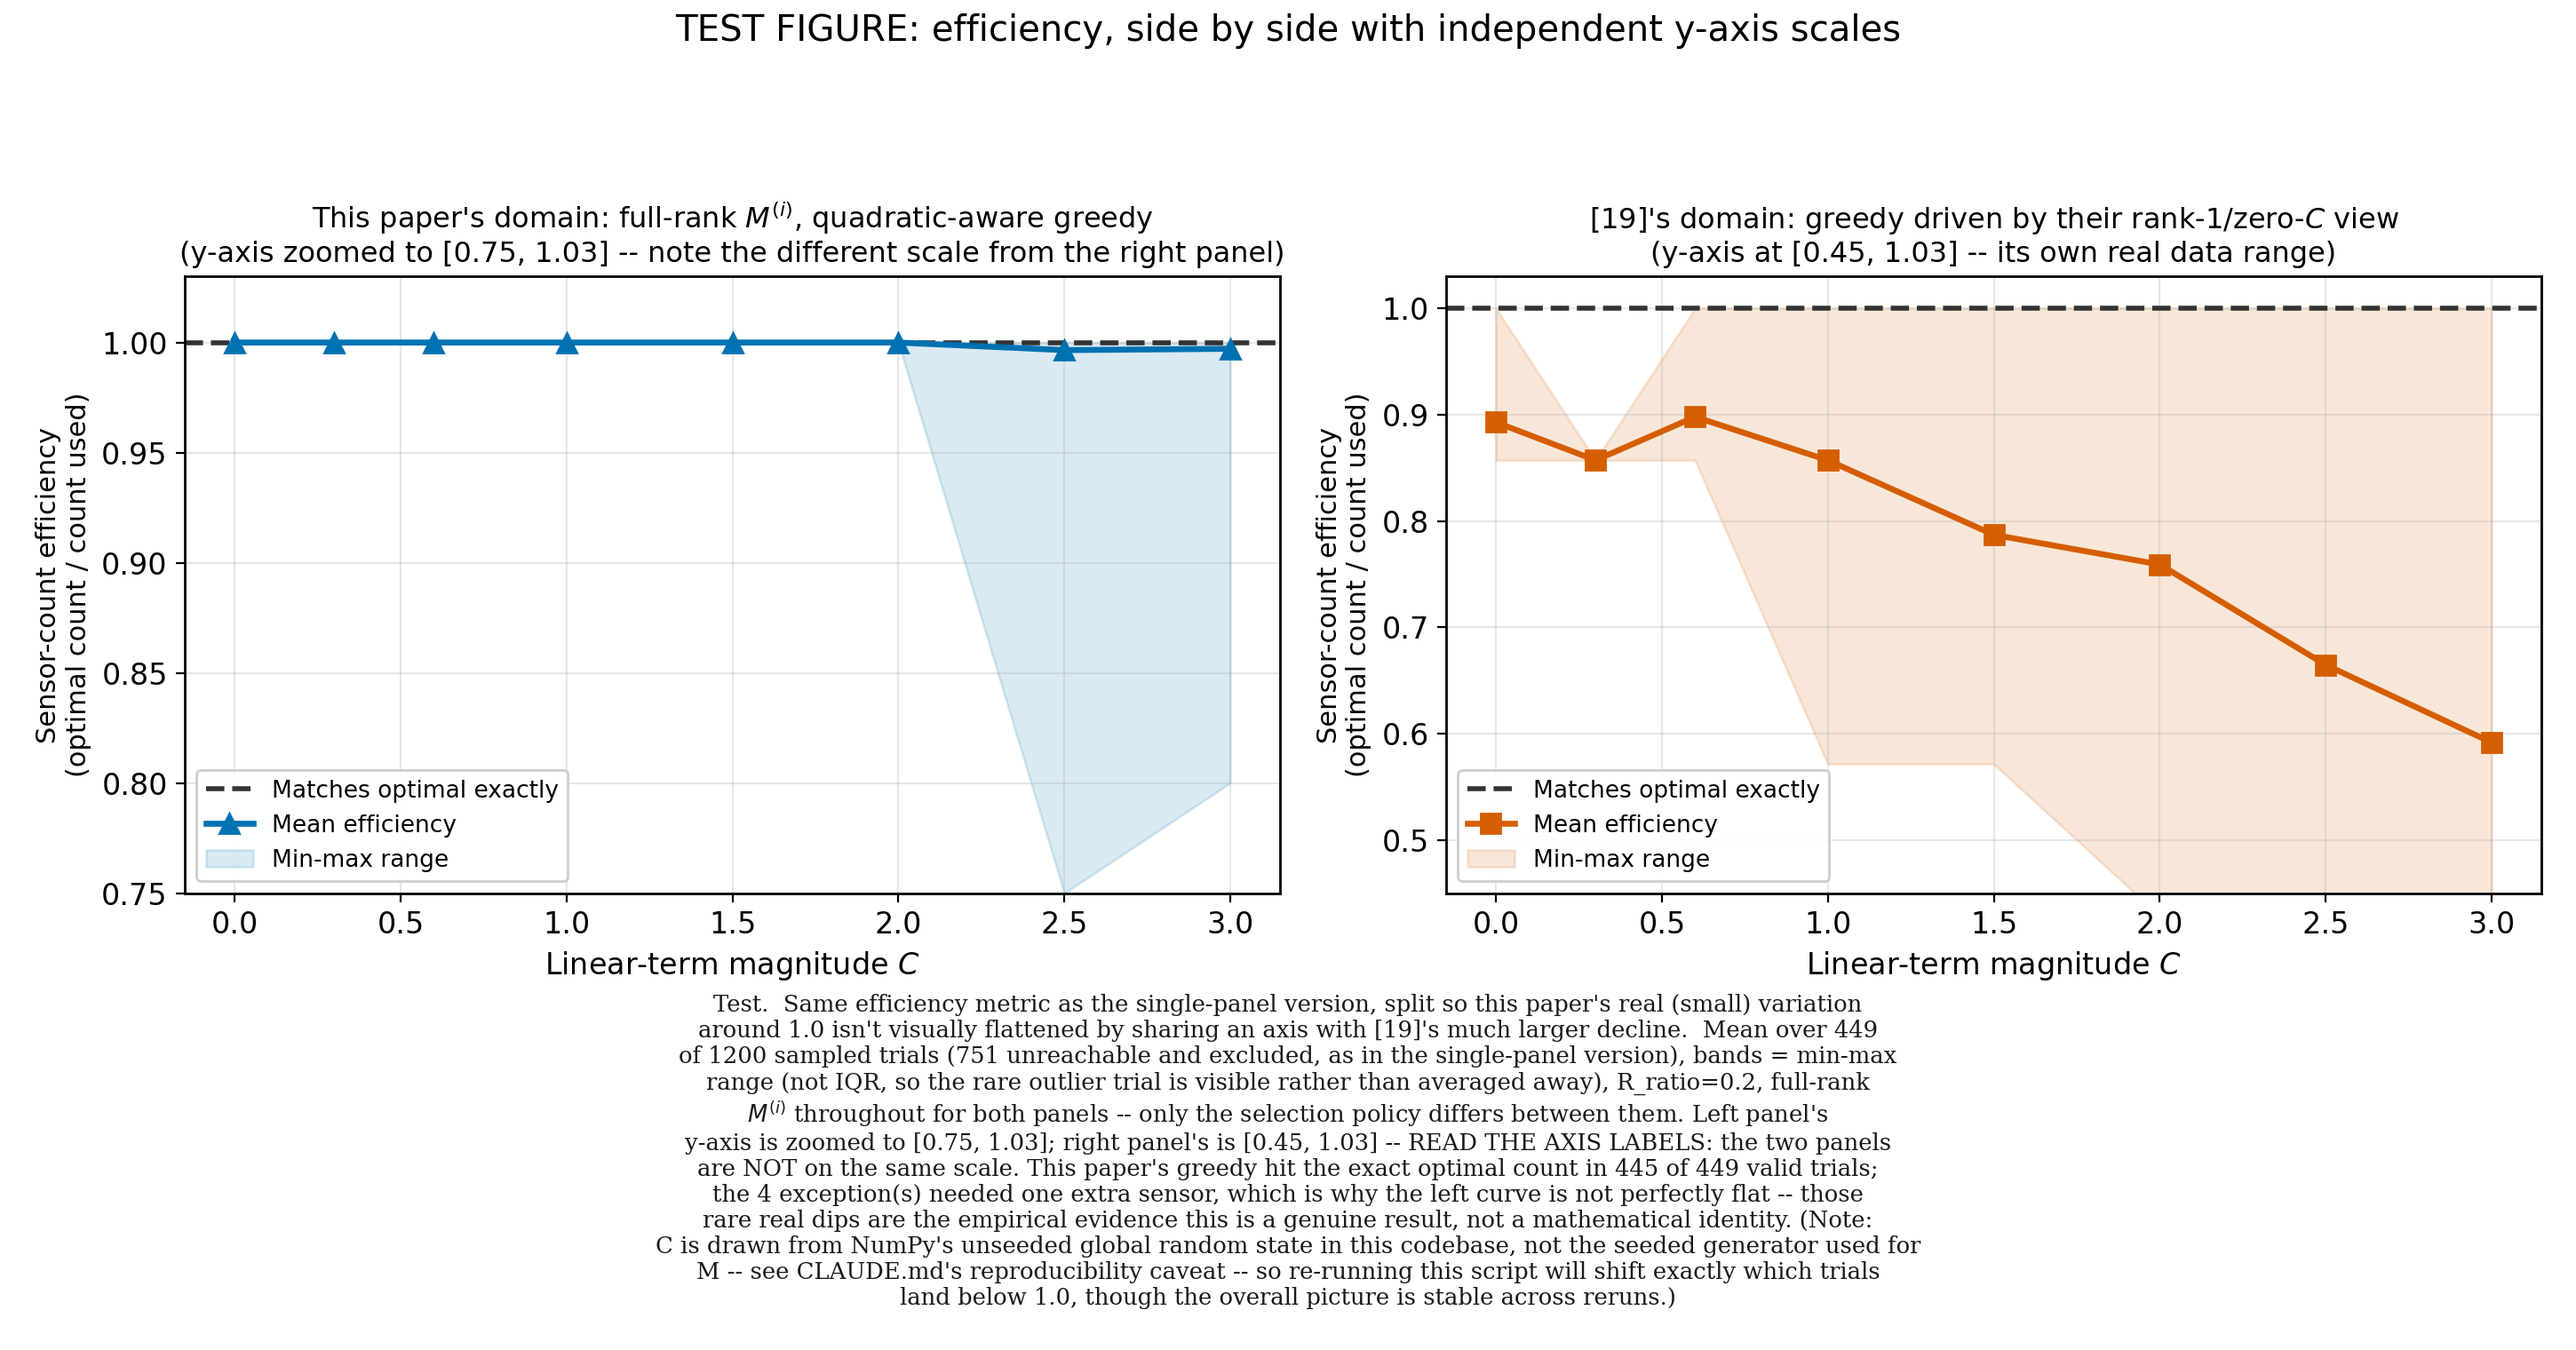
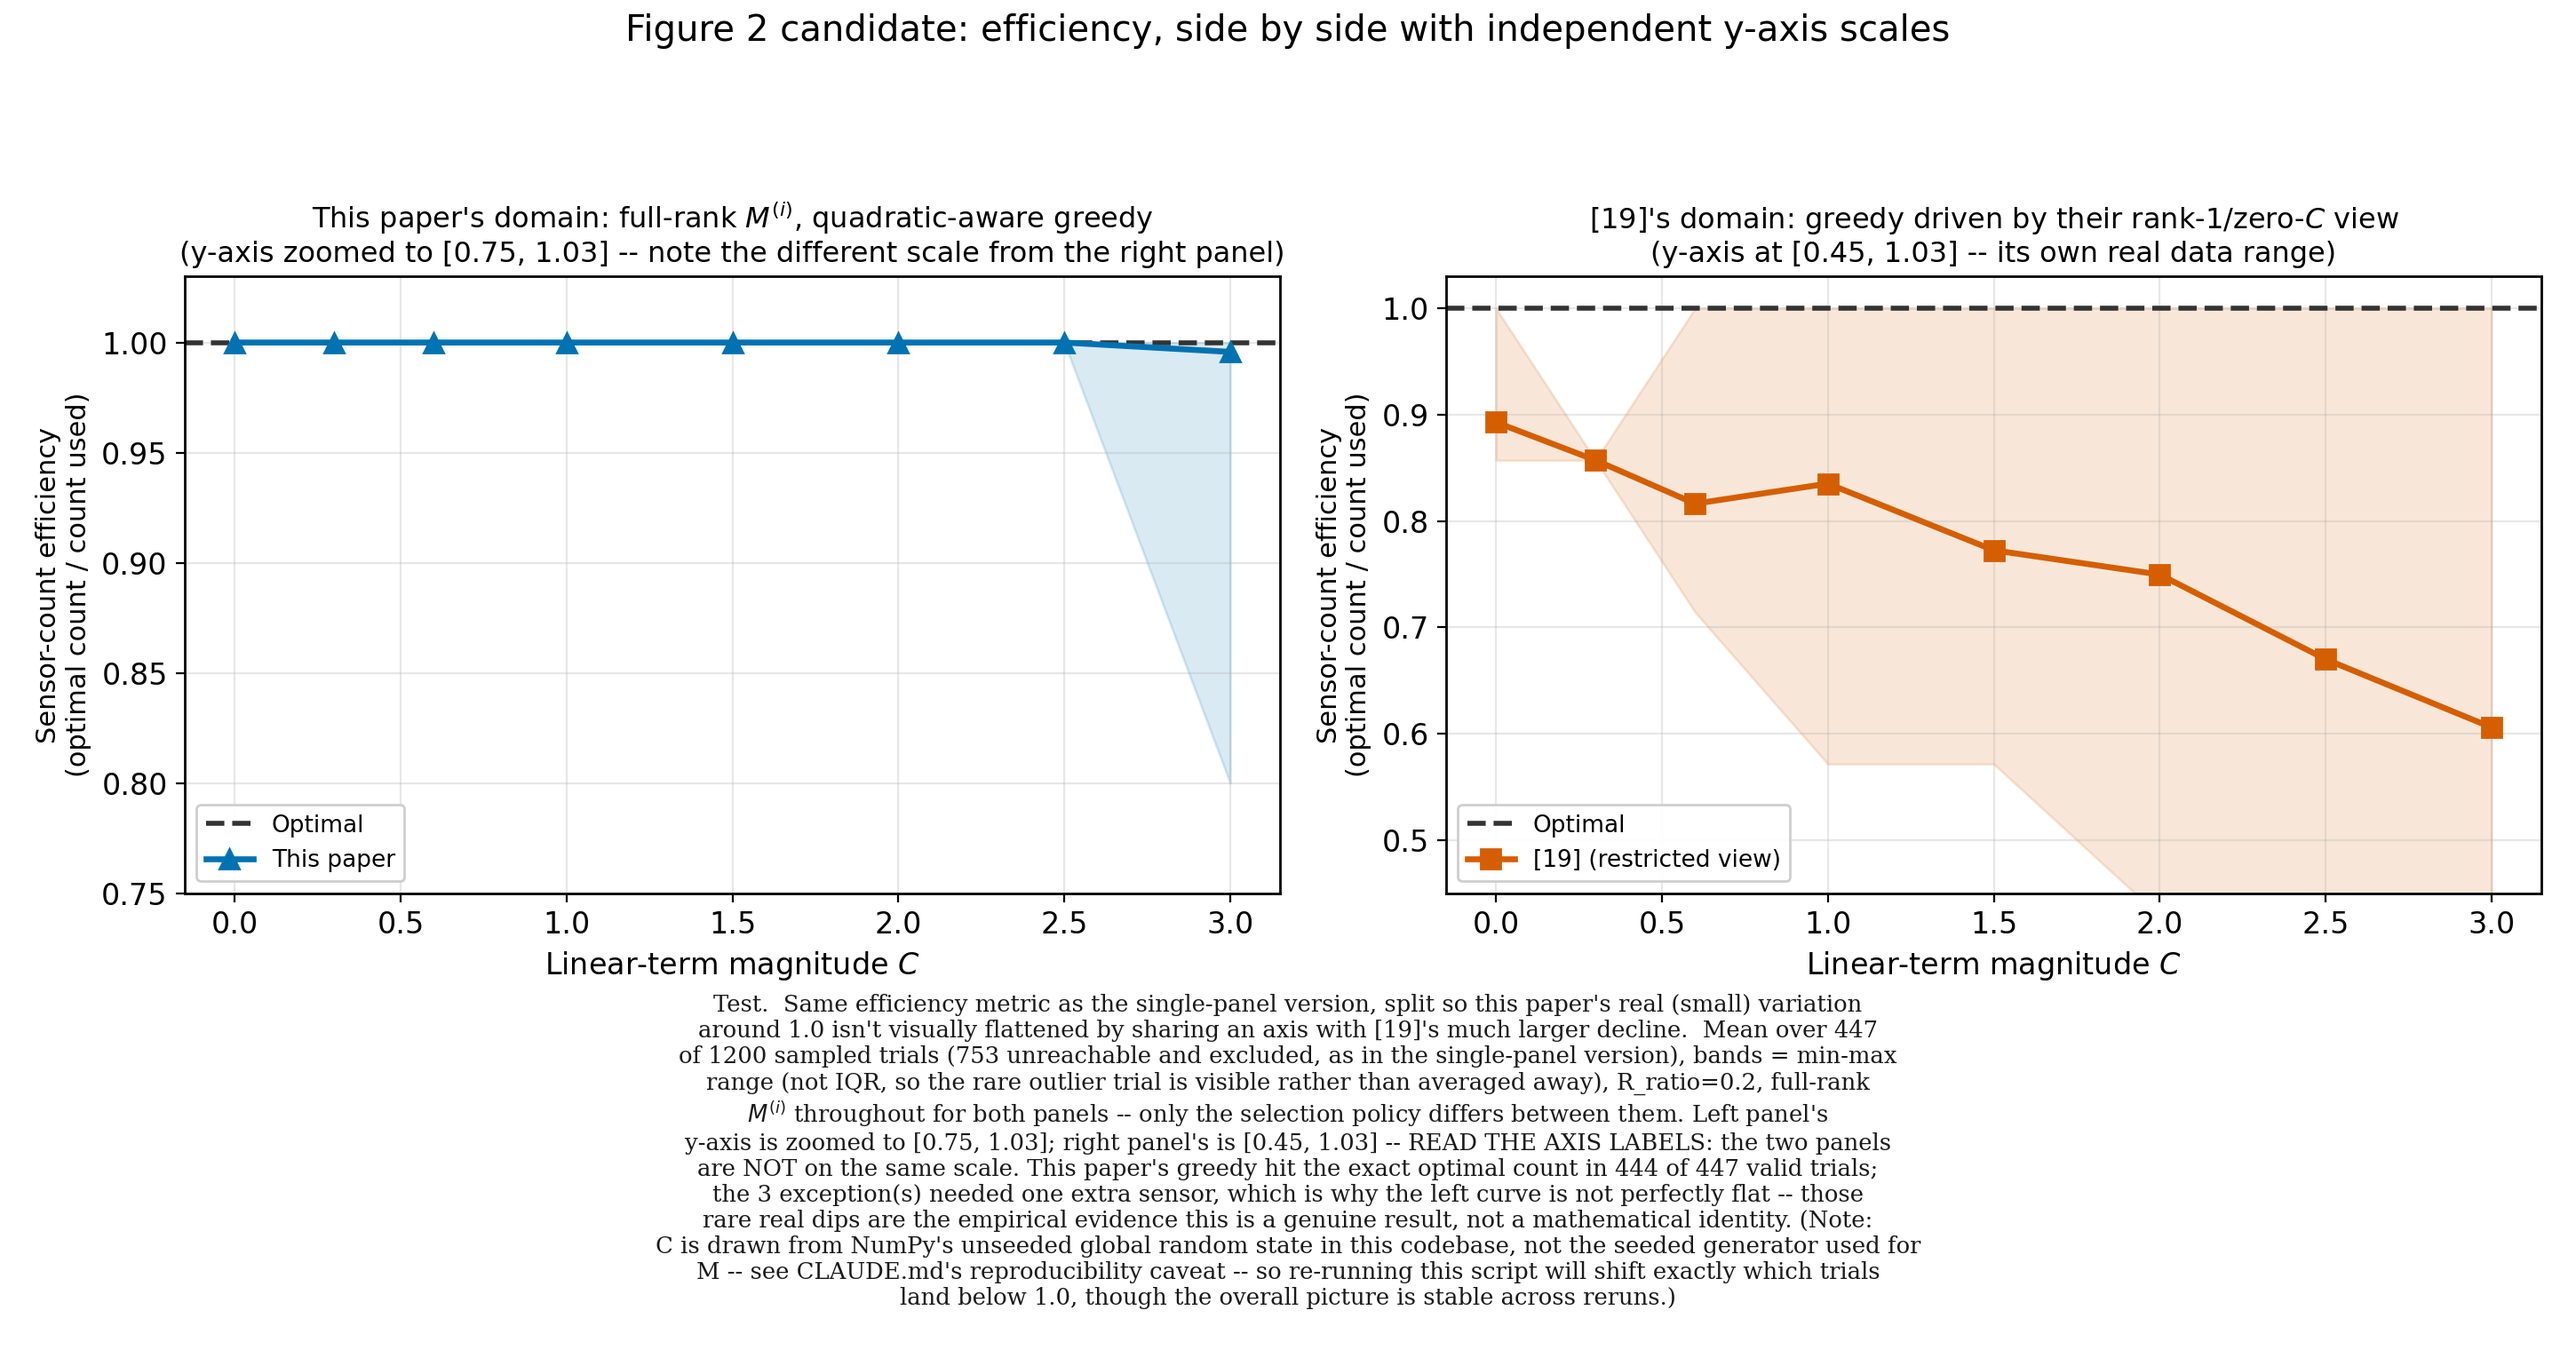
trying to finalize figure

diff --git a/LQG_QKF/CDC/fig2_candidate1_efficiency_side_by_side_publication.py b/LQG_QKF/CDC/fig2_candidate1_efficiency_side_by_side_publication.py
@@ -1,0 +1,109 @@
+"""
+CANDIDATE FIGURE for CDC2026.tex's Figure 2 -- submission-style pass over
+`fig2_candidate1_efficiency_side_by_side_highN.py`.
+
+Same data and construction (same efficiency metric, same domain split, same independent y-axis scales), but
+restyled to match the house style already used in the paper's own `fig1.png`/`fig2.png` (see
+`generate_figures.py`): plain declarative suptitle, one small gray context line below it (not a full
+baked-in caption -- that belongs in the LaTeX `\caption{}`, not the image), short plain-black panel titles,
+ONE shared legend below both panels (not a separate legend per panel), no "TEST"/debug text anywhere. The
+working/annotated version (`fig2_candidate1_efficiency_side_by_side_highN.py`) is kept as-is for internal
+review -- this is a separate file so neither version has to compromise for the other's audience.
+"""
+
+import os
+os.chdir(os.path.dirname(os.path.abspath(__file__)))
+
+import numpy as np
+import matplotlib
+matplotlib.use('Agg')
+import matplotlib.pyplot as plt
+from tqdm import tqdm
+
+from sensor_selection_sim import (
+    generate_C, per_sensor_info, h_val, greedy_select, brute_force_select, perf_dir, COLORS,
+)
+from fig2_reframe import restrict_Ii_list
+from fig2_empirical_coverage import N_STATE, M_SENSORS, P_SCALE, SIGMA2, make_M_stack_with_rank
+
+n_trials = 4000
+R_ratio = 0.2
+rng = np.random.default_rng(107)
+C_scales = np.array([0.0, 0.3, 0.6, 1.0, 1.5, 2.0, 2.5, 3.0])
+
+quad_mean, quad_min, quad_max = [], [], []
+restr_mean, restr_min, restr_max = [], [], []
+skipped_total, n_total = 0, 0
+
+for C_scale in tqdm(C_scales, desc="efficiency-side-by-side-publication"):
+    eff_quad, eff_restr = [], []
+    for _ in range(n_trials):
+        P = np.eye(N_STATE) * P_SCALE
+        Ix = np.linalg.inv(P)
+        M = make_M_stack_with_rank(M_SENSORS, N_STATE, N_STATE, 1e-2, 1.0, rng)  # full rank always
+        C = np.zeros((M_SENSORS, N_STATE)) if C_scale == 0 else generate_C(M_SENSORS, N_STATE, C_scale)
+        sigma2_vec = np.full(M_SENSORS, SIGMA2)
+        Ii_true, ci_true = per_sensor_info(M, C, P, sigma2_vec)
+        Ii_restr = restrict_Ii_list(M, sigma2_vec, P)
+        R = R_ratio * np.trace(P)
+        n_total += 1
+
+        if h_val(list(range(M_SENSORS)), Ix, Ii_true) > R:
+            skipped_total += 1
+            continue
+
+        S_star, _ = brute_force_select(M_SENSORS, Ix, Ii_true, R)
+        if len(S_star) == 0:
+            continue
+
+        S_quad = greedy_select(M_SENSORS, Ix, Ii_true, R)
+        S_restr = greedy_select(M_SENSORS, Ix, Ii_restr, R)
+        eff_quad.append(len(S_star) / len(S_quad))
+        eff_restr.append(len(S_star) / len(S_restr))
+
+    eff_quad, eff_restr = np.array(eff_quad), np.array(eff_restr)
+    quad_mean.append(eff_quad.mean()); quad_min.append(eff_quad.min()); quad_max.append(eff_quad.max())
+    restr_mean.append(eff_restr.mean()); restr_min.append(eff_restr.min()); restr_max.append(eff_restr.max())
+
+quad_mean, quad_min, quad_max = np.array(quad_mean), np.array(quad_min), np.array(quad_max)
+restr_mean, restr_min, restr_max = np.array(restr_mean), np.array(restr_min), np.array(restr_max)
+
+print(f"Skipped {skipped_total}/{n_total} trials (unreachable target)")
+
+fig, (axL, axR) = plt.subplots(1, 2, figsize=(13, 7.0))
+
+axL.axhline(1.0, color=COLORS['brute'], linestyle='--', linewidth=2, label='Optimal (brute force)', zorder=2)
+axL.plot(C_scales, quad_mean, color=COLORS['thm2'], marker='^', label='This paper: quadratic-aware greedy', zorder=4)
+axL.fill_between(C_scales, quad_min, quad_max, color=COLORS['thm2'], alpha=0.15)
+axL.set_ylim(0.75, 1.03)
+axL.set_xlabel(r'Linear-term magnitude $C$')
+axL.set_ylabel('Sensor-count efficiency\n(optimal count / count used)')
+axL.set_title("This paper's domain (full rank $M^{(i)}$)", fontsize=13)
+axL.grid(alpha=0.3)
+
+axR.axhline(1.0, color=COLORS['brute'], linestyle='--', linewidth=2, label='Optimal (brute force)', zorder=2)
+axR.plot(C_scales, restr_mean, color=COLORS['prior'], marker='s', label="[19]: restricted (rank-1, zero-$C$) view", zorder=3)
+axR.fill_between(C_scales, restr_min, restr_max, color=COLORS['prior'], alpha=0.15)
+axR.set_ylim(0.45, 1.03)
+axR.set_xlabel(r'Linear-term magnitude $C$')
+axR.set_ylabel('Sensor-count efficiency\n(optimal count / count used)')
+axR.set_title("[19]'s domain (rank-1 $M^{(i)}$, $C=0$)", fontsize=13)
+axR.grid(alpha=0.3)
+
+fig.suptitle('This paper matches the optimal sensor count; the restricted view does not', y=1.0)
+fig.text(0.5, 0.925,
+          f'N={n_trials} trials/point, shaded band = min-max range, $R_\\mathrm{{ratio}}={R_ratio}$. '
+          'Left and right panels use different y-axis scales.',
+          ha='center', fontsize=10.5, color='#555555')
+
+handles = [
+    plt.Line2D([0], [0], color=COLORS['brute'], linestyle='--', linewidth=2),
+    plt.Line2D([0], [0], color=COLORS['thm2'], marker='^', linewidth=2.4),
+    plt.Line2D([0], [0], color=COLORS['prior'], marker='s', linewidth=2.4),
+]
+labels = ['Optimal (brute force)', 'This paper: quadratic-aware greedy', "[19]: restricted (rank-1, zero-$C$) view"]
+fig.legend(handles, labels, loc='lower center', bbox_to_anchor=(0.5, 0.0), ncol=3, fontsize=11, framealpha=0.95)
+fig.tight_layout(rect=[0, 0.08, 1, 0.89])
+fig.savefig(perf_dir + 'fig2_candidate1_efficiency_side_by_side_publication.png', dpi=200)
+plt.close(fig)
+print(f"Saved {perf_dir}fig2_candidate1_efficiency_side_by_side_publication.png")

diff --git a/LQG_QKF/CDC/fig2_candidate1_efficiency_side_by_side_highN.py b/LQG_QKF/CDC/fig2_candidate1_efficiency_side_by_side_highN.py
@@ -14,6 +14,12 @@ n_trials bumped from 150 to 4000 (a ~27x increase in SAMPLED trials per C; the n
 after reachability filtering increases by roughly the same factor, since the filtering rate is a property
 of R_ratio/C, not sample size). Same seed (107), same R_ratio, same C_scales, same everything else as the
 original -- only n_trials changed.
+
+**Legend cleaned up 2026-09-14, per supervisor feedback** (referencing a published figure as the target
+style): legends should name the SERIES (method), not the STATISTIC being plotted -- no "mean," "min-max
+range," etc. as legend text. The mean line is now labeled by method only ("This paper" / "[19] (restricted
+view)"); the shaded min-max band is still drawn but no longer gets its own legend entry -- it reads as that
+series' spread by being the same color as its line, the way the reference figure's per-method bands do.
 """
 
 import os
@@ -86,9 +92,9 @@ for c, m, lo, hi in zip(C_scales, restr_mean, restr_min, restr_max):
 
 fig, (axL, axR) = plt.subplots(1, 2, figsize=(14.5, 7.6))
 
-axL.axhline(1.0, color=COLORS['brute'], linestyle='--', linewidth=2, label='Matches optimal exactly', zorder=2)
-axL.plot(C_scales, quad_mean, color=COLORS['thm2'], marker='^', zorder=4, label='Mean efficiency')
-axL.fill_between(C_scales, quad_min, quad_max, color=COLORS['thm2'], alpha=0.15, label='Min-max range')
+axL.axhline(1.0, color=COLORS['brute'], linestyle='--', linewidth=2, label='Optimal', zorder=2)
+axL.plot(C_scales, quad_mean, color=COLORS['thm2'], marker='^', zorder=4, label='This paper')
+axL.fill_between(C_scales, quad_min, quad_max, color=COLORS['thm2'], alpha=0.15)
 axL.set_ylim(0.75, 1.03)
 axL.set_xlabel(r'Linear-term magnitude $C$', fontsize=12)
 axL.set_ylabel('Sensor-count efficiency\n(optimal count / count used)', fontsize=11)
@@ -97,9 +103,9 @@ axL.set_title(f"This paper's domain: full-rank $M^{{(i)}}$, quadratic-aware gree
 axL.grid(alpha=0.3)
 axL.legend(loc='lower left', fontsize=9.5, framealpha=0.95)
 
-axR.axhline(1.0, color=COLORS['brute'], linestyle='--', linewidth=2, label='Matches optimal exactly', zorder=2)
-axR.plot(C_scales, restr_mean, color=COLORS['prior'], marker='s', zorder=3, label='Mean efficiency')
-axR.fill_between(C_scales, restr_min, restr_max, color=COLORS['prior'], alpha=0.15, label='Min-max range')
+axR.axhline(1.0, color=COLORS['brute'], linestyle='--', linewidth=2, label='Optimal', zorder=2)
+axR.plot(C_scales, restr_mean, color=COLORS['prior'], marker='s', zorder=3, label='[19] (restricted view)')
+axR.fill_between(C_scales, restr_min, restr_max, color=COLORS['prior'], alpha=0.15)
 axR.set_ylim(0.45, 1.03)
 axR.set_xlabel(r'Linear-term magnitude $C$', fontsize=12)
 axR.set_ylabel('Sensor-count efficiency\n(optimal count / count used)', fontsize=11)

diff --git a/LQG_QKF/CDC/fig2_candidate1_efficiency_side_by_side.py b/LQG_QKF/CDC/fig2_candidate1_efficiency_side_by_side.py
@@ -21,6 +21,12 @@ rich, smoothly-varying curve on the left -- expect a line that's flat at 1.0 wit
 IS the honest result at this problem scale (7 candidate sensors): greedy is provably NOT always exactly
 optimal, and this is what "not always exactly optimal" looks like when it's checked empirically rather than
 assumed.
+
+**Legend cleaned up 2026-09-14, per supervisor feedback** (referencing a published figure as the target
+style): legends should name the SERIES (method), not the STATISTIC being plotted -- no "mean," "min-max
+range," etc. as legend text. The mean line is now labeled by method only ("This paper" / "[19] (restricted
+view)"); the shaded min-max band is still drawn but no longer gets its own legend entry -- it reads as that
+series' spread by being the same color as its line, the way the reference figure's per-method bands do.
 """
 
 import os
@@ -93,9 +99,9 @@ for c, m, lo, hi in zip(C_scales, restr_mean, restr_min, restr_max):
 
 fig, (axL, axR) = plt.subplots(1, 2, figsize=(14.5, 7.6))
 
-axL.axhline(1.0, color=COLORS['brute'], linestyle='--', linewidth=2, label='Matches optimal exactly', zorder=2)
-axL.plot(C_scales, quad_mean, color=COLORS['thm2'], marker='^', zorder=4, label='Mean efficiency')
-axL.fill_between(C_scales, quad_min, quad_max, color=COLORS['thm2'], alpha=0.15, label='Min-max range')
+axL.axhline(1.0, color=COLORS['brute'], linestyle='--', linewidth=2, label='Optimal', zorder=2)
+axL.plot(C_scales, quad_mean, color=COLORS['thm2'], marker='^', zorder=4, label='This paper')
+axL.fill_between(C_scales, quad_min, quad_max, color=COLORS['thm2'], alpha=0.15)
 axL.set_ylim(0.75, 1.03)
 axL.set_xlabel(r'Linear-term magnitude $C$', fontsize=12)
 axL.set_ylabel('Sensor-count efficiency\n(optimal count / count used)', fontsize=11)
@@ -104,9 +110,9 @@ axL.set_title("This paper's domain: full-rank $M^{(i)}$, quadratic-aware greedy\
 axL.grid(alpha=0.3)
 axL.legend(loc='lower left', fontsize=9.5, framealpha=0.95)
 
-axR.axhline(1.0, color=COLORS['brute'], linestyle='--', linewidth=2, label='Matches optimal exactly', zorder=2)
-axR.plot(C_scales, restr_mean, color=COLORS['prior'], marker='s', zorder=3, label='Mean efficiency')
-axR.fill_between(C_scales, restr_min, restr_max, color=COLORS['prior'], alpha=0.15, label='Min-max range')
+axR.axhline(1.0, color=COLORS['brute'], linestyle='--', linewidth=2, label='Optimal', zorder=2)
+axR.plot(C_scales, restr_mean, color=COLORS['prior'], marker='s', zorder=3, label='[19] (restricted view)')
+axR.fill_between(C_scales, restr_min, restr_max, color=COLORS['prior'], alpha=0.15)
 axR.set_ylim(0.45, 1.03)
 axR.set_xlabel(r'Linear-term magnitude $C$', fontsize=12)
 axR.set_ylabel('Sensor-count efficiency\n(optimal count / count used)', fontsize=11)

diff --git a/README.md b/README.md
@@ -306,6 +306,14 @@ question with a technically correct answer.
 (the high-$N$ version, since it resolves the same story with less sampling noise and a smoother restricted-
 view curve).
 
+**Submission-styled version, 2026-09-14:** `fig2_candidate1_efficiency_side_by_side_publication.png` is the
+same data and construction restyled to match the house style already used in `fig1.png`/`fig2.png` (plain
+declarative title, one small gray context line instead of a baked-in caption paragraph, one shared legend
+below both panels, per supervisor feedback that legends should name the series, not the statistic). This is
+the version to actually submit; the annotated `_highN` version stays as the internal-review copy.
+
+![Efficiency, side by side, submission style](LQG_QKF/CDC/sensor_selection_test/perf/fig2_candidate1_efficiency_side_by_side_publication.png)
+
 ---
 
 ## Appendix: file index
@@ -320,3 +328,4 @@ view curve).
 | Efficiency, single panel | `LQG_QKF/CDC/fig2_emp7_TEST_decision_quality_top_panel.py` | `LQG_QKF/CDC/sensor_selection_test/perf/fig2_emp7_TEST_efficiency_top_panel.png` |
 | **Efficiency, side by side (candidate)** | `LQG_QKF/CDC/fig2_candidate1_efficiency_side_by_side.py` | `LQG_QKF/CDC/sensor_selection_test/perf/fig2_candidate1_efficiency_side_by_side.png` |
 | **Efficiency, side by side, high-N (recommended)** | `LQG_QKF/CDC/fig2_candidate1_efficiency_side_by_side_highN.py` | `LQG_QKF/CDC/sensor_selection_test/perf/fig2_candidate1_efficiency_side_by_side_highN.png` |
+| **Efficiency, side by side, submission style (to submit)** | `LQG_QKF/CDC/fig2_candidate1_efficiency_side_by_side_publication.py` | `LQG_QKF/CDC/sensor_selection_test/perf/fig2_candidate1_efficiency_side_by_side_publication.png` |
